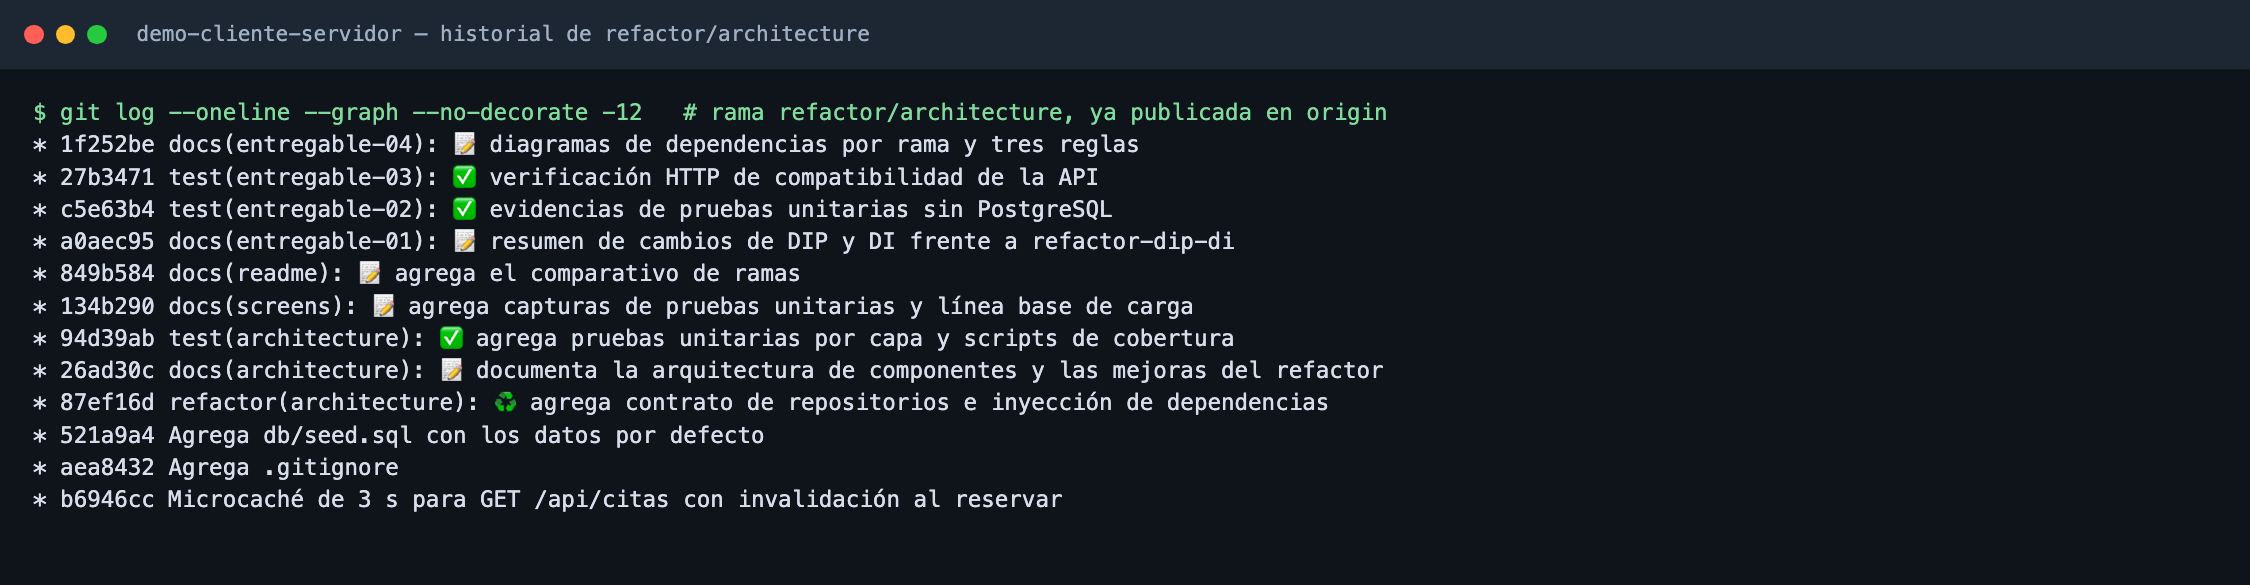
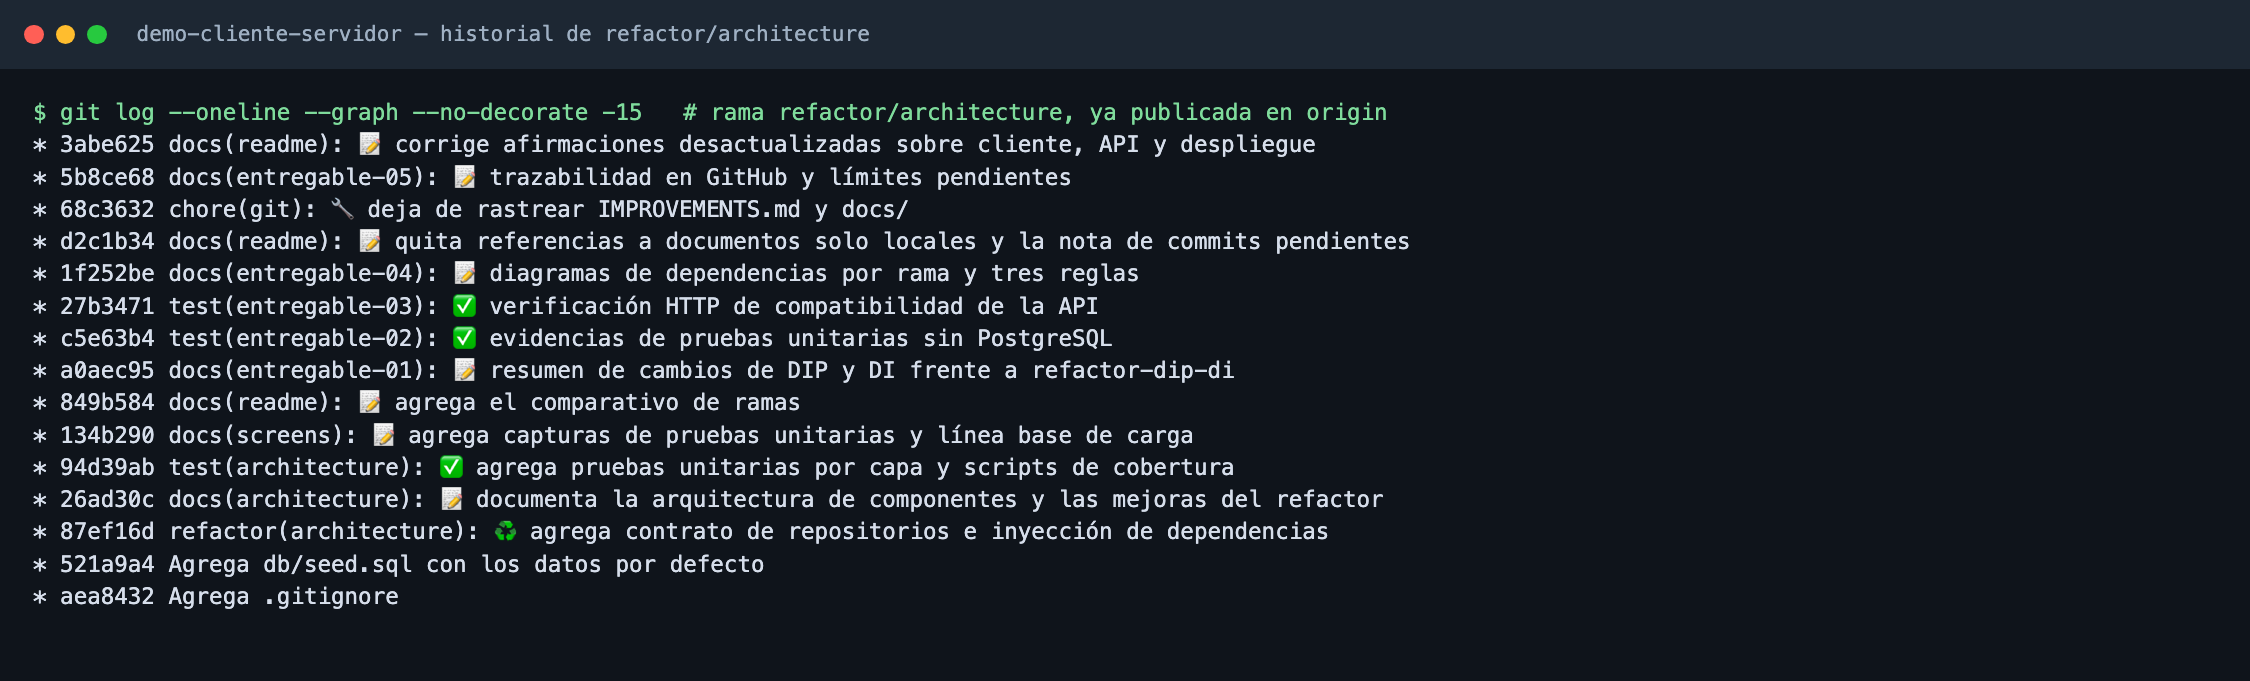
docs(entregable-05): 📝 actualiza la trazabilidad con los últimos commits
- 📝 agrega los commits de limpieza de README y de documentos locales
- 📝 historial regenerado hasta el último commit publicado

Changed region(s): [[0.0, 0.1538, 0.6222, 0.8923], [0.0, 0.0308, 0.4044, 0.0923]]

diff --git a/screens/entregable-05-trazabilidad/README.md b/screens/entregable-05-trazabilidad/README.md
@@ -16,6 +16,10 @@ Rama [`refactor/architecture`](https://github.com/Null01/demo-cliente-servidor/t
 | 04 · Diagramas | [`1f252be`](https://github.com/Null01/demo-cliente-servidor/commit/1f252be) | Diagramas por rama y reglas explicadas |
 | Apoyo | [`849b584`](https://github.com/Null01/demo-cliente-servidor/commit/849b584) | Cuadro comparativo de ramas en el README |
 | Apoyo | [`26ad30c`](https://github.com/Null01/demo-cliente-servidor/commit/26ad30c) | Documentación de la arquitectura |
+| Apoyo | [`d2c1b34`](https://github.com/Null01/demo-cliente-servidor/commit/d2c1b34) | README sin referencias a documentos solo locales |
+| Apoyo | [`68c3632`](https://github.com/Null01/demo-cliente-servidor/commit/68c3632) | `IMPROVEMENTS.md` y `docs/` dejan de rastrearse |
+| 05 · Trazabilidad | [`5b8ce68`](https://github.com/Null01/demo-cliente-servidor/commit/5b8ce68) | Este entregable |
+| Apoyo | [`3abe625`](https://github.com/Null01/demo-cliente-servidor/commit/3abe625) | README con afirmaciones corregidas sobre cliente, API y despliegue |
 
 ![Historial de commits](01-historial-de-commits.png)
 
